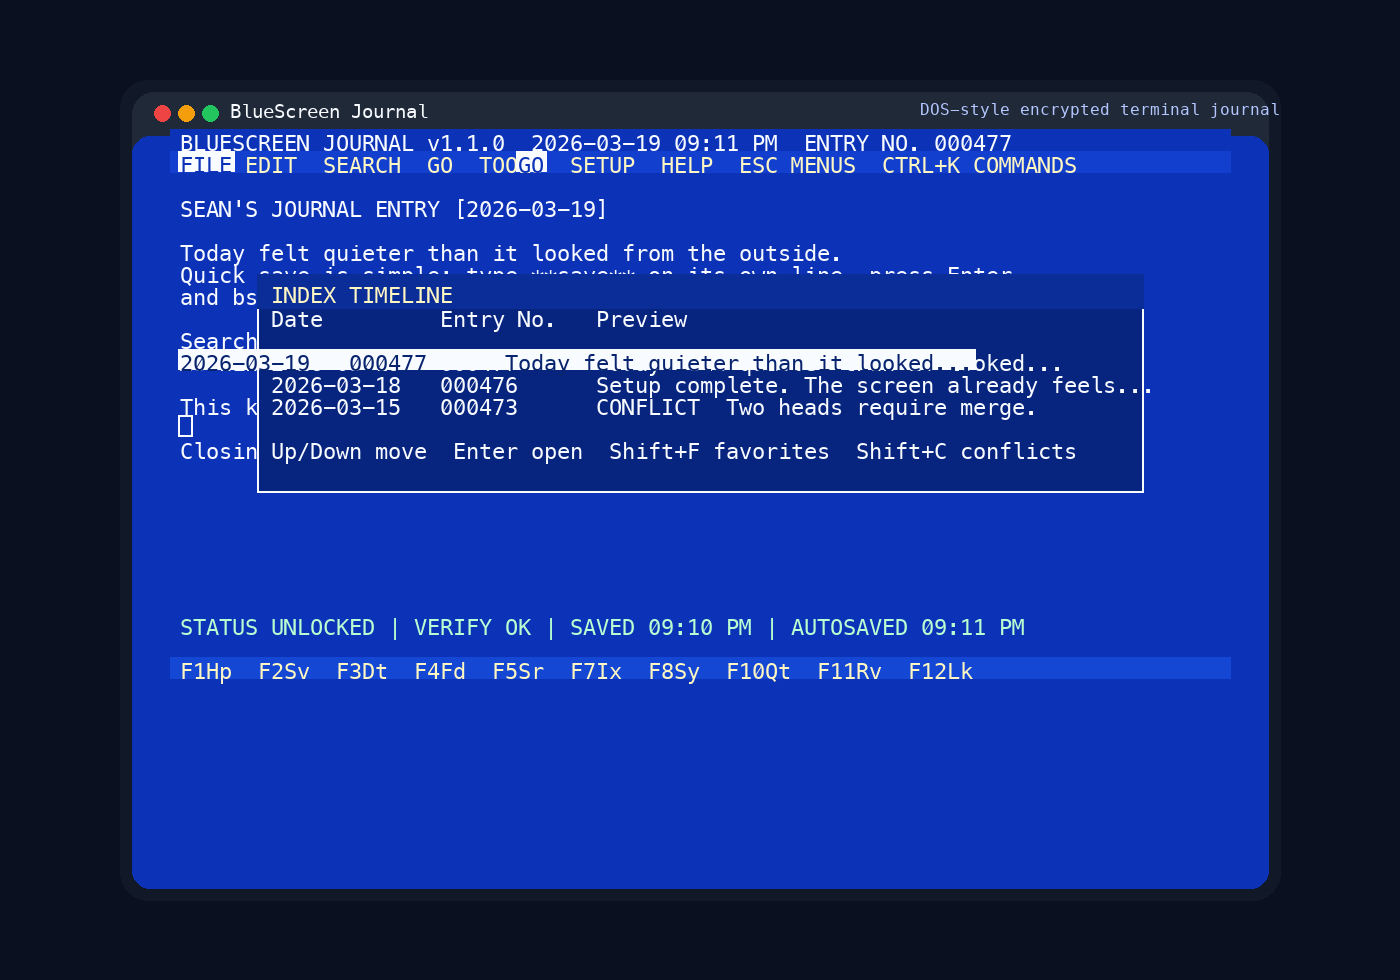
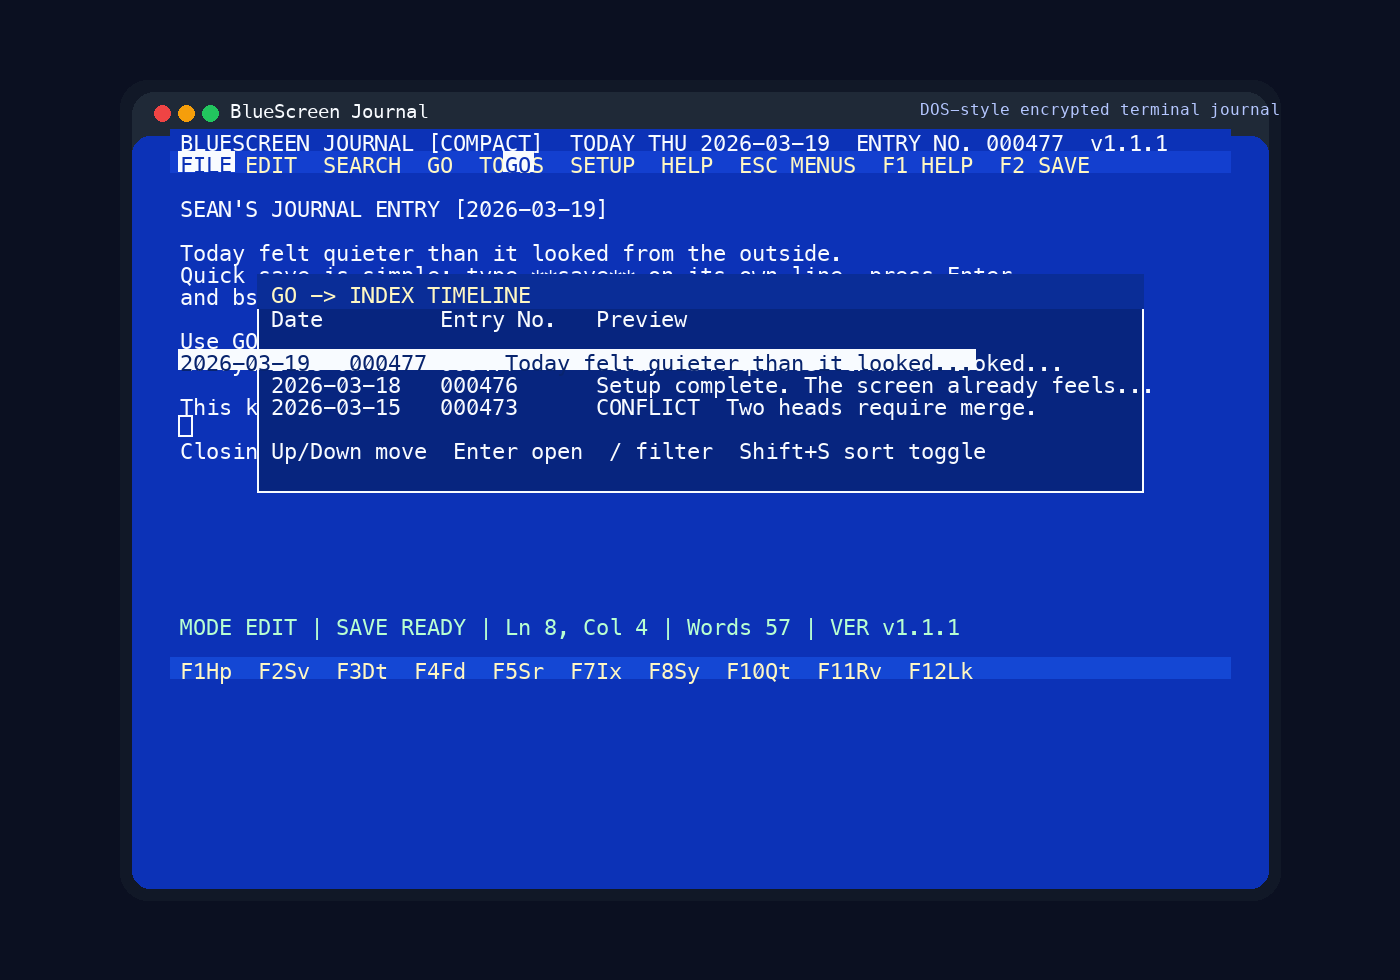
Release v1.1.1: installer hardening + docs/screenshot refresh

diff --git a/scripts/render_marketing_assets.py b/scripts/render_marketing_assets.py
@@ -18,7 +18,7 @@ FRAME_W = 1160
 FRAME_H = 820
 SCREEN_COLS = 80
 SCREEN_ROWS = 25
-RELEASE_LABEL = "v1.1.0"
+RELEASE_LABEL = "v1.1.1"
 
 BG_OUTER = "#0b1021"
 BG_TERMINAL = "#111827"
@@ -160,13 +160,13 @@ def editor_frame() -> Image.Image:
     draw_text(
         draw,
         0,
-        f"BLUESCREEN JOURNAL {RELEASE_LABEL:>6}  2026-03-19 09:11 PM  ENTRY NO. 000477",
+        f"BLUESCREEN JOURNAL [COMPACT]  TODAY THU 2026-03-19  ENTRY NO. 000477  {RELEASE_LABEL}",
     )
     draw_highlight_span(draw, 1, 0, "FILE")
     draw_text(
         draw,
         1,
-        " EDIT  SEARCH  GO  TOOLS  SETUP  HELP  ESC MENUS  CTRL+K COMMANDS",
+        " EDIT  SEARCH  GO  TOOLS  SETUP  HELP  ESC MENUS  F1 HELP  F2 SAVE",
         fill=FG_ACCENT,
         col=4,
     )
@@ -178,8 +178,8 @@ def editor_frame() -> Image.Image:
         "Quick save is simple: type **save** on its own line, press Enter,",
         "and bsj writes a new encrypted revision then opens a clean page.",
         "",
-        "Search, timeline, and calendar all stay inside this same screen.",
-        "Nothing plaintext is written to disk outside explicit exports.",
+        "Use GO for calendar/index. Use SEARCH for global vault lookup.",
+        "Everything here stays encrypted at rest (except explicit exports).",
         "",
         "This keeps the app feeling like a writing appliance, not a dashboard.",
         "",
@@ -199,7 +199,7 @@ def editor_frame() -> Image.Image:
     draw_text(
         draw,
         22,
-        "STATUS UNLOCKED | VERIFY OK | SAVED 09:10 PM | AUTOSAVED 09:11 PM",
+        "MODE EDIT | SAVE READY | Ln 8, Col 4 | Words 57 | VER v1.1.1",
         fill=FG_SUCCESS,
     )
     draw_footer(
@@ -223,10 +223,10 @@ def editor_frame() -> Image.Image:
 def calendar_frame() -> Image.Image:
     image = editor_frame()
     draw = ImageDraw.Draw(image)
-    draw_highlight_span(draw, 1, 18, "GO")
+    draw_highlight_span(draw, 1, 25, "GO")
     draw_overlay(
         draw,
-        "CALENDAR",
+        "GO -> CALENDAR",
         [
             "March 2026 (Entry Date Jump)",
             "",
@@ -237,24 +237,24 @@ def calendar_frame() -> Image.Image:
             "22 23 24 25 26 27 28",
             "29 30 31",
             "",
-            "PgUp/PgDn month, Enter open, Alt+N next blank date",
+            "PgUp/PgDn month  Enter open  [ ] jump saved day",
         ],
-        width_cols=36,
+        width_cols=40,
         height_rows=12,
-        start_col=22,
+        start_col=20,
         start_row=5,
     )
-    draw_text(draw, 18, "Saved days are bright. Today is bracketed.", fill=FG_ALERT)
+    draw_text(draw, 18, "Saved days are highlighted. Today is bracketed.", fill=FG_ALERT)
     return image
 
 
 def search_frame() -> Image.Image:
     image = editor_frame()
     draw = ImageDraw.Draw(image)
-    draw_highlight_span(draw, 1, 12, "SEARCH")
+    draw_highlight_span(draw, 1, 11, "SEARCH")
     draw_overlay(
         draw,
-        "SEARCH VAULT",
+        "SEARCH -> VAULT",
         [
             "Query: quiet",
             "From: 2026-03-01      To: 2026-03-31",
@@ -263,7 +263,7 @@ def search_frame() -> Image.Image:
             "2026-03-18  A [quiet] room makes the draft honest.",
             "2026-03-12  Nothing dramatic. Just a [quiet] win.",
             "",
-            "Enter opens match  Ctrl+Shift+B saves preset  Esc closes",
+            "Enter open  Ctrl+Shift+B save preset  Ctrl+1..9 recall",
         ],
         width_cols=58,
         height_rows=10,
@@ -277,10 +277,10 @@ def search_frame() -> Image.Image:
 def index_frame() -> Image.Image:
     image = editor_frame()
     draw = ImageDraw.Draw(image)
-    draw_highlight_span(draw, 1, 26, "GO")
+    draw_highlight_span(draw, 1, 25, "GO")
     draw_overlay(
         draw,
-        "INDEX TIMELINE",
+        "GO -> INDEX TIMELINE",
         [
             "Date         Entry No.   Preview",
             "",
@@ -288,7 +288,7 @@ def index_frame() -> Image.Image:
             "2026-03-18   000476      Setup complete. The screen already feels...",
             "2026-03-15   000473      CONFLICT  Two heads require merge.",
             "",
-            "Up/Down move  Enter open  Shift+F favorites  Shift+C conflicts",
+            "Up/Down move  Enter open  / filter  Shift+S sort toggle",
         ],
         width_cols=66,
         height_rows=9,

diff --git a/README.md b/README.md
@@ -22,13 +22,12 @@ The product goal is narrow on purpose: launch, unlock once, and start writing im
 - local-first design with optional folder/S3/WebDAV encrypted sync
 - optional AI summary and reflective coach mode (off by default)
 
-## New in v1.1.0
+## New in v1.1.1
 
-- added power search controls: `--range`, `--match-mode all|any|phrase`, `--hits-per-entry`, `--sort newest|oldest|relevance`, and `--summary`
-- added timeline preset management: `--save-preset`, `--preset`, `--list-presets`, and `--delete-preset`
-- added timeline grouping output: `--group-by day|week|month`
-- added optional AI reflection commands and menu surfaces: `bsj ai summary`, `bsj ai coach`, `TOOLS -> AI Summary (Optional)`, and `TOOLS -> AI Coach Mode (Optional)`
-- refreshed docs and screenshot assets to match the current menu-first `v1.1.0` UI
+- fixed installer launch behavior to avoid `Failed to initialize input reader` when starting the TUI from post-install flows
+- hardened bootstrap install flow so public one-line installs always run the current installer logic
+- refreshed docs and screenshot assets to match the current compact/menu-first interface
+- updated public release and install surfaces to `v1.1.1`
 
 ## Screenshots
 
@@ -77,7 +76,7 @@ It gives you:
 | Resolve install/runtime issues | [Troubleshooting](docs/TROUBLESHOOTING.md), [Terminal Guide](docs/TERMINAL_GUIDE.md), [Support](SUPPORT.md) |
 | Operate sync/backup safely | [Sync Guide](docs/SYNC_GUIDE.md), [Backup Restore](docs/BACKUP_RESTORE.md), [Privacy](docs/PRIVACY.md) |
 | Configure and tune behavior | [Settings Guide](docs/SETTINGS_GUIDE.md), [config.example.json](docs/config.example.json) |
-| Package or distribute releases | [Distribution Guide](docs/DISTRIBUTION.md), [Release Notes](docs/releases/v1.1.0.md) |
+| Package or distribute releases | [Distribution Guide](docs/DISTRIBUTION.md), [Release Notes](docs/releases/v1.1.1.md) |
 
 ## Turnkey install
 
@@ -90,7 +89,7 @@ curl -fsSL https://raw.githubusercontent.com/Awassee/bluescreenjournal/main/inst
 Pin a specific release:
 
 ```bash
-curl -fsSL https://raw.githubusercontent.com/Awassee/bluescreenjournal/main/install.sh | bash -s -- --version v1.1.0
+curl -fsSL https://raw.githubusercontent.com/Awassee/bluescreenjournal/main/install.sh | bash -s -- --version v1.1.1
 ```
 
 Install from source instead of the prebuilt release:
@@ -410,7 +409,7 @@ Start here on GitHub:
 - [Datasheet](docs/DATASHEET.md)
 - [FAQ](docs/FAQ.md)
 - [Compare bsj](docs/COMPARE.md)
-- [Release Notes](docs/releases/v1.1.0.md)
+- [Release Notes](docs/releases/v1.1.1.md)
 - [Next 10 Feature Pack](docs/FEATURES_NEXT10.md)
 - [Feature Pass v1.0.3 (Archive)](docs/FEATURE_PASS_VNEXT.md)
 - [SYSOP Features](docs/SYSOP_FEATURES.md)

diff --git a/docs/releases/v1.1.1.md b/docs/releases/v1.1.1.md
@@ -1,0 +1,41 @@
+# BlueScreen Journal v1.1.1
+
+`v1.1.1` is a stability and release-surface refresh focused on installer reliability and current-product documentation/screenshots.
+
+## What changed
+
+- Fixed post-install launch behavior to run `bsj` with a PTY wrapper, preventing `Failed to initialize input reader` from installer launch paths.
+- Hardened bootstrap release installs so downloaded archives are installed via the current top-level installer logic.
+- Removed confusing manual PATH export prompts from installer completion output and improved next-step guidance.
+- Refreshed generated screenshot assets to match the current compact/menu-first interface and release marker.
+- Updated docs entry points (`README`, docs hub, setup/distribution/start pages, issue template) to the `v1.1.1` release line.
+
+## Install / Update
+
+Install latest:
+
+```bash
+curl -fsSL https://raw.githubusercontent.com/Awassee/bluescreenjournal/main/install.sh | bash
+```
+
+Pin this release:
+
+```bash
+curl -fsSL https://raw.githubusercontent.com/Awassee/bluescreenjournal/main/install.sh | bash -s -- --prebuilt --version v1.1.1
+```
+
+## Release assets
+
+- `bsj-1.1.1-universal-apple-darwin.tar.gz`
+- `bsj-1.1.1-universal-apple-darwin.tar.gz.sha256`
+- `bsj-universal-apple-darwin.tar.gz`
+- `bsj-universal-apple-darwin.tar.gz.sha256`
+
+## Validation
+
+- `cargo fmt --all`
+- `cargo clippy --all-targets -- -D warnings`
+- `cargo test --all-targets`
+- `./scripts/qa-gate.sh`
+- `./scripts/package-release.sh --universal`
+- `./scripts/smoke-release-install.sh --archive dist/bsj-1.1.1-universal-apple-darwin.tar.gz`

diff --git a/docs/index.md b/docs/index.md
@@ -2,8 +2,8 @@
 
 BlueScreen Journal is a local-first encrypted terminal journal for macOS with a nostalgic blue-screen writing workflow.
 
-- Latest stable: [v1.1.0](https://github.com/Awassee/bluescreenjournal/releases/tag/v1.1.0)
-- Release notes: [v1.1.0](releases/v1.1.0.md)
+- Latest stable: [v1.1.1](https://github.com/Awassee/bluescreenjournal/releases/tag/v1.1.1)
+- Release notes: [v1.1.1](releases/v1.1.1.md)
 - Full changelog: [CHANGELOG.md](../CHANGELOG.md)
 
 ## Start Here
@@ -25,7 +25,7 @@ curl -fsSL https://raw.githubusercontent.com/Awassee/bluescreenjournal/main/inst
 Pin this release:
 
 ```bash
-curl -fsSL https://raw.githubusercontent.com/Awassee/bluescreenjournal/main/install.sh | bash -s -- --version v1.1.0
+curl -fsSL https://raw.githubusercontent.com/Awassee/bluescreenjournal/main/install.sh | bash -s -- --version v1.1.1
 ```
 
 ## Screenshots

diff --git a/docs/DISTRIBUTION.md b/docs/DISTRIBUTION.md
@@ -32,7 +32,7 @@ That bootstrap installer:
 Pin a specific release:
 
 ```bash
-curl -fsSL https://raw.githubusercontent.com/Awassee/bluescreenjournal/main/install.sh | bash -s -- --version v1.1.0
+curl -fsSL https://raw.githubusercontent.com/Awassee/bluescreenjournal/main/install.sh | bash -s -- --version v1.1.1
 ```
 
 ## Release Bundle Layout
@@ -61,7 +61,7 @@ dist/
         bsj-search.png
         ...
       releases/
-        v1.1.0.md
+        v1.1.1.md
       SETUP_GUIDE.md
       PRODUCT_GUIDE.md
       DATASHEET.md
@@ -262,7 +262,7 @@ Release workflow:
 Release automation flow:
 
 ```bash
-git tag v1.1.0
+git tag v1.1.1
 git push origin main --tags
 ```
 

diff --git a/CHANGELOG.md b/CHANGELOG.md
@@ -2,6 +2,13 @@
 
 ## Unreleased
 
+## v1.1.1
+
+- fixed installer post-install launch path to open the TUI with a PTY wrapper, preventing `Failed to initialize input reader`
+- fixed bootstrap install/update flow to run the current top-level installer logic for release archives
+- removed manual PATH export prompts from installer completion copy and clarified next-step messaging
+- refreshed generated product screenshots and docs release surfaces for the current compact/menu-first UI
+
 ## v1.1.0
 
 - added search power controls: `--range`, `--match-mode all|any|phrase`, `--hits-per-entry`, `--sort newest|oldest|relevance`, and `--summary`

diff --git a/docs/START_HERE.md b/docs/START_HERE.md
@@ -15,8 +15,8 @@ Use this page as the docs control panel for BlueScreen Journal.
 
 ## Latest release
 
-- current stable: [`v1.1.0`](https://github.com/Awassee/bluescreenjournal/releases/tag/v1.1.0)
-- current release notes: [docs/releases/v1.1.0.md](releases/v1.1.0.md)
+- current stable: [`v1.1.1`](https://github.com/Awassee/bluescreenjournal/releases/tag/v1.1.1)
+- current release notes: [docs/releases/v1.1.1.md](releases/v1.1.1.md)
 - full history: [docs/releases/](releases/)
 
 ## Visual tour

diff --git a/docs/SETUP_GUIDE.md b/docs/SETUP_GUIDE.md
@@ -11,7 +11,7 @@ curl -fsSL https://raw.githubusercontent.com/Awassee/bluescreenjournal/main/inst
 Install a specific tagged release:
 
 ```bash
-curl -fsSL https://raw.githubusercontent.com/Awassee/bluescreenjournal/main/install.sh | bash -s -- --version v1.1.0
+curl -fsSL https://raw.githubusercontent.com/Awassee/bluescreenjournal/main/install.sh | bash -s -- --version v1.1.1
 ```
 
 Install from source instead:

diff --git a/docs/releases/README.md b/docs/releases/README.md
@@ -2,10 +2,11 @@
 
 Latest stable:
 
-- [v1.1.0](v1.1.0.md)
+- [v1.1.1](v1.1.1.md)
 
 Recent releases:
 
+- [v1.1.0](v1.1.0.md)
 - [v1.0.3](v1.0.3.md)
 - [v1.0.2](v1.0.2.md)
 - [v1.0.1](v1.0.1.md)
